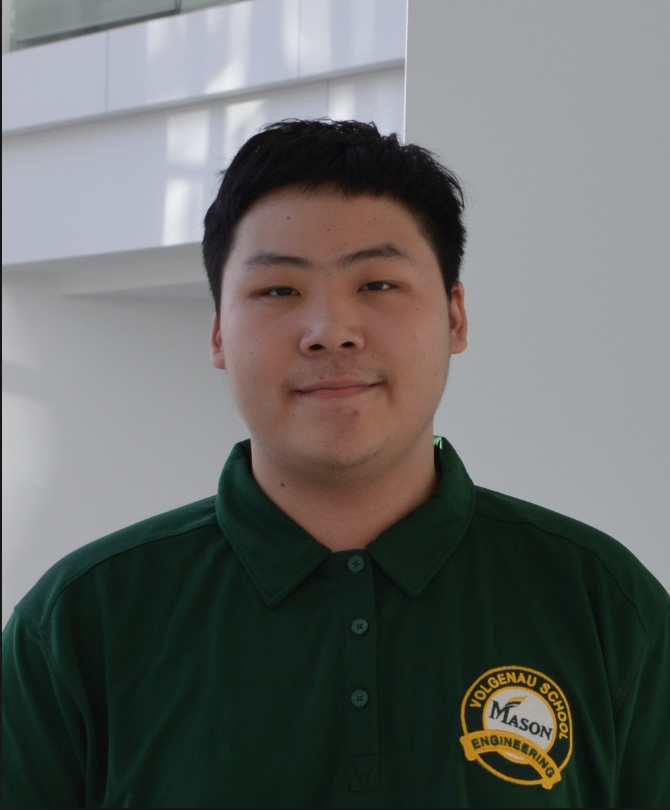
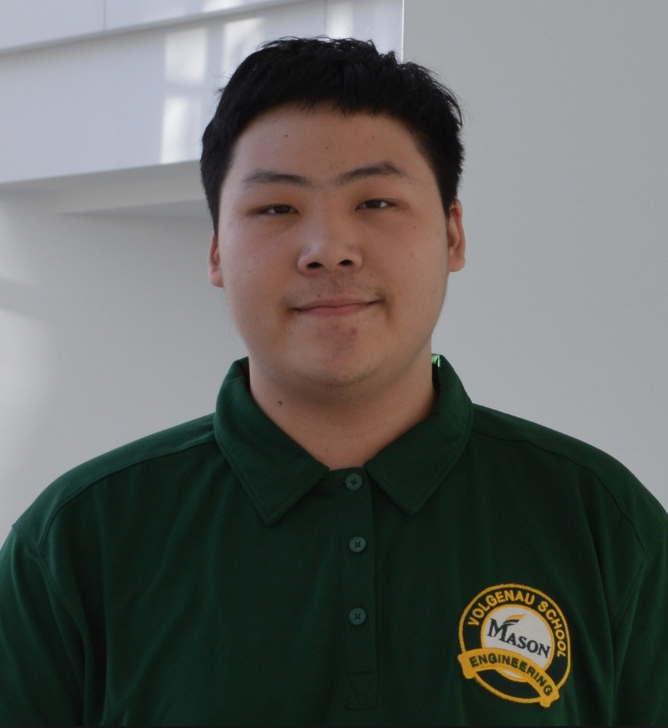
website version -1.5

diff --git a/authors/admin/index.html b/authors/admin/index.html
@@ -518,7 +518,7 @@
 
       
       
-      <img class="portrait" src="/authors/admin/avatar_hu2368f6685b3d3cee2f66b2205d9774ea_508429_250x250_fill_q90_lanczos_center.jpg" alt="Avatar">
+      <img class="portrait" src="/authors/admin/avatar_hu44f0198cd387de6e1241e6b36818a21c_636838_250x250_fill_q90_lanczos_center.jpg" alt="Avatar">
       
 
       <div class="portrait-title">

diff --git a/index.html b/index.html
@@ -579,7 +579,7 @@
 
       
       
-      <img class="portrait" src="/authors/admin/avatar_hu2368f6685b3d3cee2f66b2205d9774ea_508429_250x250_fill_q90_lanczos_center.jpg" alt="Avatar">
+      <img class="portrait" src="/authors/admin/avatar_hu44f0198cd387de6e1241e6b36818a21c_636838_250x250_fill_q90_lanczos_center.jpg" alt="Avatar">
       
 
       <div class="portrait-title">
